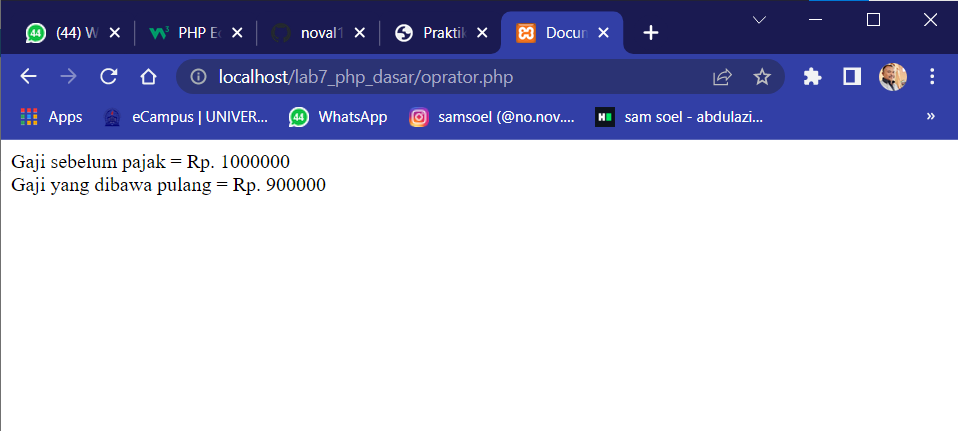
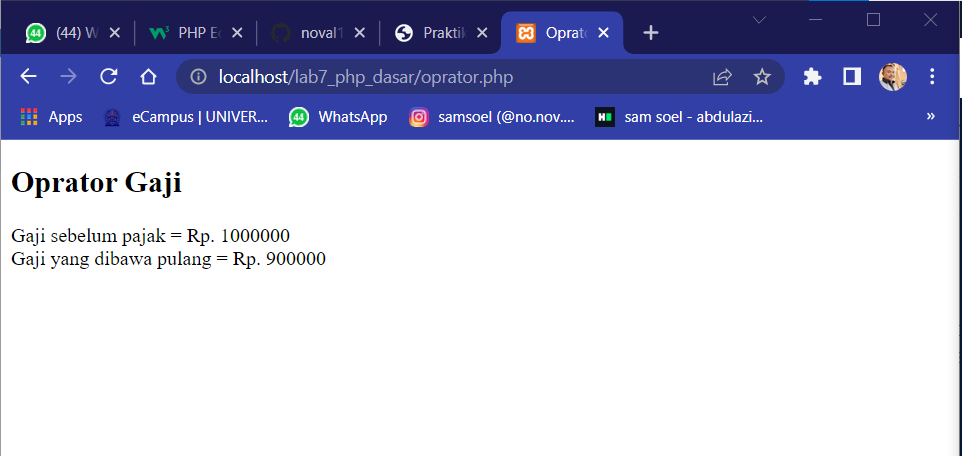
Kondisi if

diff --git a/source/tugas.php b/source/tugas.php
@@ -1,0 +1,28 @@
+<!DOCTYPE html>
+<html lang="en">
+
+<head>
+    <meta charset="UTF-8">
+    <title>Tugas Lab7</title>
+</head>
+
+<body>
+    <?php
+    function hitung_umur($tanggal_lahir)
+    {
+        $birthDate = new DateTime($tanggal_lahir);
+        $today = new DateTime("today");
+        if ($birthDate > $today) {
+            exit("0 tahun 0 bulan 0 hari");
+        }
+        $y = $today->diff($birthDate)->y;
+        $m = $today->diff($birthDate)->m;
+        $d = $today->diff($birthDate)->d;
+        return $y . " tahun " . $m . " bulan " . $d . " hari";
+    }
+
+    echo hitung_umur("2002-02-18");
+    ?>
+</body>
+
+</html>

diff --git a/source/Kondisi_Switch.php b/source/Kondisi_Switch.php
@@ -1,0 +1,30 @@
+<!DOCTYPE html>
+<html lang="en">
+
+<head>
+    <meta charset="UTF-8">
+    <title>Kondisi Switch</title>
+</head>
+
+<body>
+    <h2>Kondisi Switch</h2>
+    <?php
+    $nama_hari = date("1");
+    switch ($nama_hari) {
+        case "Sunday":
+            break;
+            echo "minggu";
+            break;
+        case "Monday":
+            echo "Senin";
+            break;
+        case "Tuesday":
+            echo "Selasa";
+            break;
+        default:
+            echo "Sabtu";
+    }
+    ?>
+</body>
+
+</html>

diff --git a/source/Pengulangan_for.php b/source/Pengulangan_for.php
@@ -1,0 +1,23 @@
+<!DOCTYPE html>
+<html lang="en">
+
+<head>
+    <meta charset="UTF-8">
+    <title>Perulangan for</title>
+</head>
+
+<body>
+    <h2>Perulangan for</h2>
+    <?php
+    echo "Perulangan 1 sampai 10 <br />";
+    for ($i = 1; $i <= 10; $i++) {
+        echo "Perulangan ke: " . $i . '<br />';
+    }
+    echo "Perulangan Menurun dari 10 ke 1 <br />";
+    for ($i = 10; $i >= 1; $i--) {
+        echo "Perulangan ke: " . $i . '<br />';
+    }
+    ?>
+</body>
+
+</html>

diff --git a/source/dasar.php b/source/dasar.php
@@ -1,0 +1,24 @@
+<!DOCTYPE html>
+<html lang="en">
+
+<head>
+    <meta charset="UTF-8">
+    <title>PHP Dasar</title>
+</head>
+
+<body>
+    <h1>Belajar PHP Dasar</h1>
+    <?php
+    echo "Hello World";
+    ?>
+
+    <h1>Menggunakan Variable</h1>
+    <?php
+    $nim = "312010049";
+    $nama = 'Abdul Aziz Anaoval';
+    echo "NIM : " . $nim . "<br>";
+    echo "Nama : $nama";
+    ?>
+</body>
+
+</html>

diff --git a/source/latihan2.php b/source/latihan2.php
@@ -1,0 +1,21 @@
+<!DOCTYPE html>
+<html lang="en">
+
+<head>
+    <meta charset="UTF-8">
+    <title>PHP Dasar</title>
+</head>
+
+<body>
+    <h2>Form Input</h2>
+    <form method="post">
+        <label>Nama: </label>
+        <input type="text" name="nama">
+        <input type="submit" value="Kirim">
+    </form>
+    <?php
+    echo 'Selamat Datang ' . $_POST['nama'];
+    ?>
+</body>
+
+</html>

diff --git a/source/kondisi_IF.php b/source/kondisi_IF.php
@@ -1,0 +1,23 @@
+<!DOCTYPE html>
+<html lang="en">
+
+<head>
+    <meta charset="UTF-8">
+    <title>Kondisi IF</title>
+</head>
+
+<body>
+    <h2>Kondisi IF</h2>
+    <?php
+    $nama_hari = date("l");
+    if ($nama_hari == "Sunday") {
+        echo "Minggu";
+    } elseif ($nama_hari == "Monday") {
+        echo "Senin";
+    } else {
+        echo "Selasa";
+    }
+    ?>
+</body>
+
+</html>

diff --git a/source/Perulangan_dowhile.php b/source/Perulangan_dowhile.php
@@ -1,0 +1,23 @@
+<!DOCTYPE html>
+<html lang="en">
+
+<head>
+    <meta charset="UTF-8">
+    <title>Perulangan dowhile
+    </title>
+</head>
+
+<body>
+    <h2>Perulangan dowhile
+    </h2>
+    <?php
+    echo "Perulangan 1 sampai 10 <br />";
+    $i = 1;
+    do {
+        echo "Perulangan ke: " . $i . '<br />';
+        $i++;
+    } while ($i <= 10);
+    ?>
+</body>
+
+</html>

diff --git a/source/oprator.php b/source/oprator.php
@@ -1,0 +1,21 @@
+<!DOCTYPE html>
+<html lang="en">
+
+<head>
+    <meta charset="UTF-8">
+    <title>Oprator</title>
+</head>
+
+<body>
+    <h2>Oprator Gaji</h2>
+    <?php
+    $gaji = 1000000;
+    $pajak = 0.1;
+    $thp = $gaji - ($gaji * $pajak);
+    echo "Gaji sebelum pajak = Rp. $gaji <br>";
+    echo "Gaji yang dibawa pulang = Rp. $thp";
+    ?>
+
+</body>
+
+</html>

diff --git a/source/Perulangan_while.php b/source/Perulangan_while.php
@@ -1,0 +1,21 @@
+<!DOCTYPE html>
+<html lang="en">
+
+<head>
+    <meta charset="UTF-8">
+    <title>Perulangan while</title>
+</head>
+
+<body>
+    <h2>Perulangan while</h2>
+    <?php
+    echo "Perulangan 1 sampai 10 <br />";
+    $i = 1;
+    while ($i <= 10) {
+        echo "Perulangan ke: " . $i . '<br />';
+        $i++;
+    }
+    ?>
+</body>
+
+</html>

diff --git a/README.md b/README.md
@@ -124,6 +124,23 @@ http://localhost/lab7_php_dasar/latihan2.php?nama=Noval
 ```
 ![oprator_gaji](asset/img/oprator.png)
 
+### 8. Kondisi IF
+
+```php
+  <h2>Kondisi IF</h2>
+    <?php
+    $nama_hari = date("l");
+    if ($nama_hari == "Sunday") {
+        echo "Minggu";
+    } elseif ($nama_hari == "Monday") {
+        echo "Senin";
+    } else {
+        echo "Selasa";
+    }
+    ?>
+```
+![Kondisi_if](asset/img/Kondisi_if.png)
+
 # Pertanyaan dan Tugas
 
 Buatlah program PHP sederhana dengan menggunakan form input yang menampilkan nama, tanggal lahir dan pekerjaan. Kemudian tampilkan outputnya dengan menghitung umur berdasarkan inputan tanggal lahir. Dan pilihan pekerjaan dengan gaji yang berbeda-beda sesuai pilihan pekerjaan.
